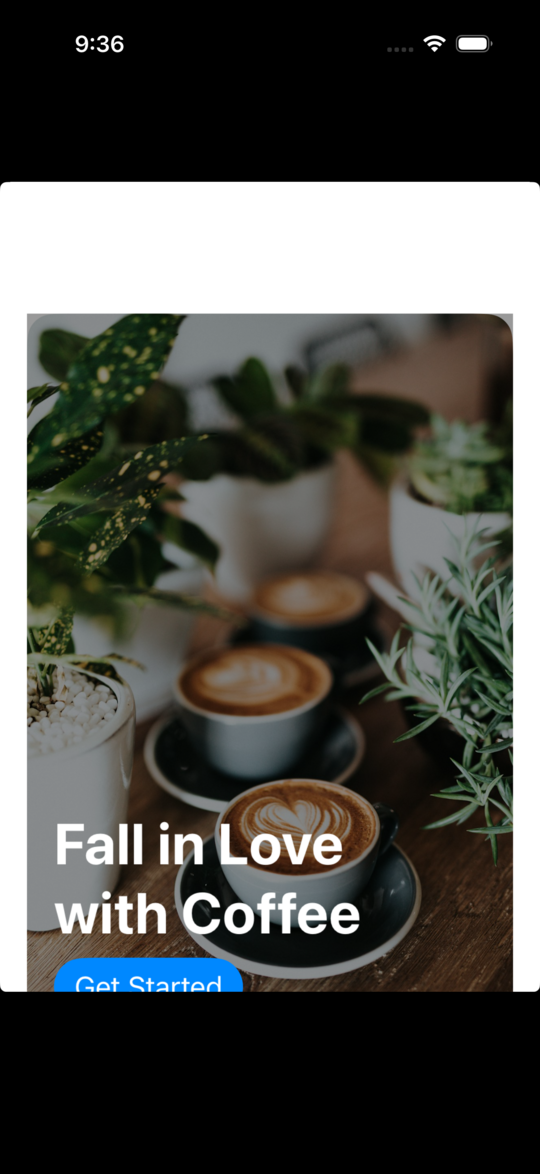
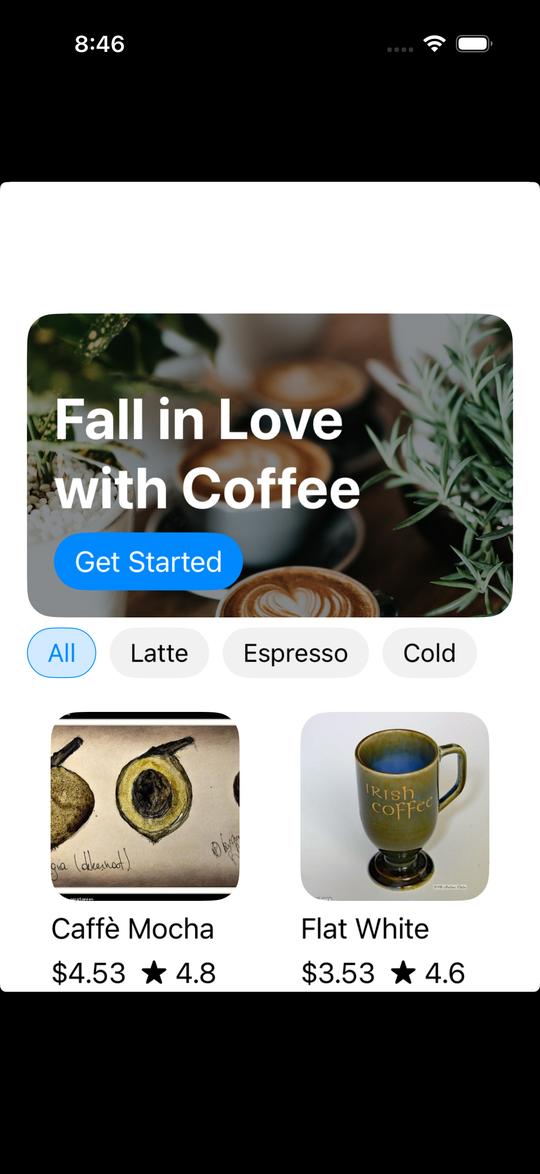
ios: size hero/image by aspect ratio, scrim as overlay (Android parity)
The coffee storefront rendered wrong on iOS: the hero filled the whole
screen, hiding the category chips and product grid. Two shell bugs in the
SwiftUI Render, both also affecting any scaffolded app:

- Scrim Box: a bare `Color.black.opacity(0.4)` sat as a ZStack sibling.
  A bare Color is infinitely greedy, so it inflated the hero to fill the
  scroll view. Now the scrim + foreground ride as an `.overlay` on the
  background image (the SwiftUI twin of Compose's `matchParentSize()`):
  sized to the image, never driving layout.
- Image: `.aspectRatio(ratio, .fit)` applied directly to `AsyncImage` is
  unreliable — it tracks the loaded image's own ratio — so the wide hero
  rendered far too tall. Drive the box from a ratio'd `Color.clear` and
  let the image fill it as an overlay.

Fixed in both the template shell and the coffee demo's copy (kept in sync).
Reshot demos/coffee/screenshots/ios.png — storefront now reads the same as
Android (hero + chips + grid). Verified on the iOS 26.5 simulator.

diff --git a/demos/coffee/iOS/Sources/Render.swift b/demos/coffee/iOS/Sources/Render.swift
@@ -15,13 +15,19 @@ func render(_ widget: SharedTypes.Widget, _ send: @escaping (Action) -> Void) ->
         return AnyView(Text(content).modifier(TextStyleMod(style)))
 
     case .image(let source, let shape, let ratio):
+        // Size the box from a ratio'd `Color.clear` (an intrinsic-less sizing
+        // view) and let the image fill it as an overlay. Applying `.aspectRatio`
+        // to `AsyncImage` directly is unreliable — it tracks the loaded image's
+        // own ratio — which made the wide hero render far too tall.
         return AnyView(
-            AsyncImage(url: URL(string: source)) { image in
-                image.resizable().aspectRatio(contentMode: .fill)
-            } placeholder: { Color.gray.opacity(0.15) }
-            .aspectRatio(aspect(ratio), contentMode: .fit)
-            .frame(maxWidth: .infinity)
-            .clipShape(imageShape(shape))
+            Color.clear
+                .aspectRatio(aspect(ratio), contentMode: .fit)
+                .overlay(
+                    AsyncImage(url: URL(string: source)) { image in
+                        image.resizable().aspectRatio(contentMode: .fill)
+                    } placeholder: { Color.gray.opacity(0.15) }
+                )
+                .clipShape(imageShape(shape))
         )
 
     case .badge(let label, let tone):
@@ -56,17 +62,27 @@ func render(_ widget: SharedTypes.Widget, _ send: @escaping (Action) -> Void) ->
         return body
 
     case .box(let children, let align, let scrim):
+        // A scrim box (hero banner) must be sized by its background — the first
+        // child, an image — not by the dimming layer. A bare `Color` is an
+        // infinitely greedy view, so leaving it as a ZStack sibling inflates the
+        // box to fill the scroll view. Instead the scrim + foreground ride along
+        // as an `.overlay` on the image (the SwiftUI twin of Compose's
+        // `matchParentSize()`): sized to the image, never driving layout. The
+        // clipShape matches the rounded hero image so the dim doesn't bleed corners.
+        if scrim, children.count > 1, let first = children.first {
+            return AnyView(
+                render(first, send).overlay(
+                    ZStack(alignment: boxAlign(align)) {
+                        Color.black.opacity(0.4)
+                        VStack(alignment: .leading) { childViews(Array(children.dropFirst()), send) }
+                            .padding().foregroundColor(.white)
+                    }
+                    .clipShape(RoundedRectangle(cornerRadius: 16))
+                )
+            )
+        }
         return AnyView(
-            ZStack(alignment: boxAlign(align)) {
-                if scrim, let first = children.first {
-                    render(first, send)
-                    Color.black.opacity(0.4)
-                    VStack(alignment: .leading) { childViews(Array(children.dropFirst()), send) }
-                        .padding().foregroundColor(.white)
-                } else {
-                    childViews(children, send)
-                }
-            }
+            ZStack(alignment: boxAlign(align)) { childViews(children, send) }
         )
 
     case .grid(let children):

diff --git a/mobiler/templates/iOS/Sources/Render.swift b/mobiler/templates/iOS/Sources/Render.swift
@@ -15,13 +15,19 @@ func render(_ widget: SharedTypes.Widget, _ send: @escaping (Action) -> Void) ->
         return AnyView(Text(content).modifier(TextStyleMod(style)))
 
     case .image(let source, let shape, let ratio):
+        // Size the box from a ratio'd `Color.clear` (an intrinsic-less sizing
+        // view) and let the image fill it as an overlay. Applying `.aspectRatio`
+        // to `AsyncImage` directly is unreliable — it tracks the loaded image's
+        // own ratio — which made the wide hero render far too tall.
         return AnyView(
-            AsyncImage(url: URL(string: source)) { image in
-                image.resizable().aspectRatio(contentMode: .fill)
-            } placeholder: { Color.gray.opacity(0.15) }
-            .aspectRatio(aspect(ratio), contentMode: .fit)
-            .frame(maxWidth: .infinity)
-            .clipShape(imageShape(shape))
+            Color.clear
+                .aspectRatio(aspect(ratio), contentMode: .fit)
+                .overlay(
+                    AsyncImage(url: URL(string: source)) { image in
+                        image.resizable().aspectRatio(contentMode: .fill)
+                    } placeholder: { Color.gray.opacity(0.15) }
+                )
+                .clipShape(imageShape(shape))
         )
 
     case .badge(let label, let tone):
@@ -56,17 +62,27 @@ func render(_ widget: SharedTypes.Widget, _ send: @escaping (Action) -> Void) ->
         return body
 
     case .box(let children, let align, let scrim):
+        // A scrim box (hero banner) must be sized by its background — the first
+        // child, an image — not by the dimming layer. A bare `Color` is an
+        // infinitely greedy view, so leaving it as a ZStack sibling inflates the
+        // box to fill the scroll view. Instead the scrim + foreground ride along
+        // as an `.overlay` on the image (the SwiftUI twin of Compose's
+        // `matchParentSize()`): sized to the image, never driving layout. The
+        // clipShape matches the rounded hero image so the dim doesn't bleed corners.
+        if scrim, children.count > 1, let first = children.first {
+            return AnyView(
+                render(first, send).overlay(
+                    ZStack(alignment: boxAlign(align)) {
+                        Color.black.opacity(0.4)
+                        VStack(alignment: .leading) { childViews(Array(children.dropFirst()), send) }
+                            .padding().foregroundColor(.white)
+                    }
+                    .clipShape(RoundedRectangle(cornerRadius: 16))
+                )
+            )
+        }
         return AnyView(
-            ZStack(alignment: boxAlign(align)) {
-                if scrim, let first = children.first {
-                    render(first, send)
-                    Color.black.opacity(0.4)
-                    VStack(alignment: .leading) { childViews(Array(children.dropFirst()), send) }
-                        .padding().foregroundColor(.white)
-                } else {
-                    childViews(children, send)
-                }
-            }
+            ZStack(alignment: boxAlign(align)) { childViews(children, send) }
         )
 
     case .grid(let children):
